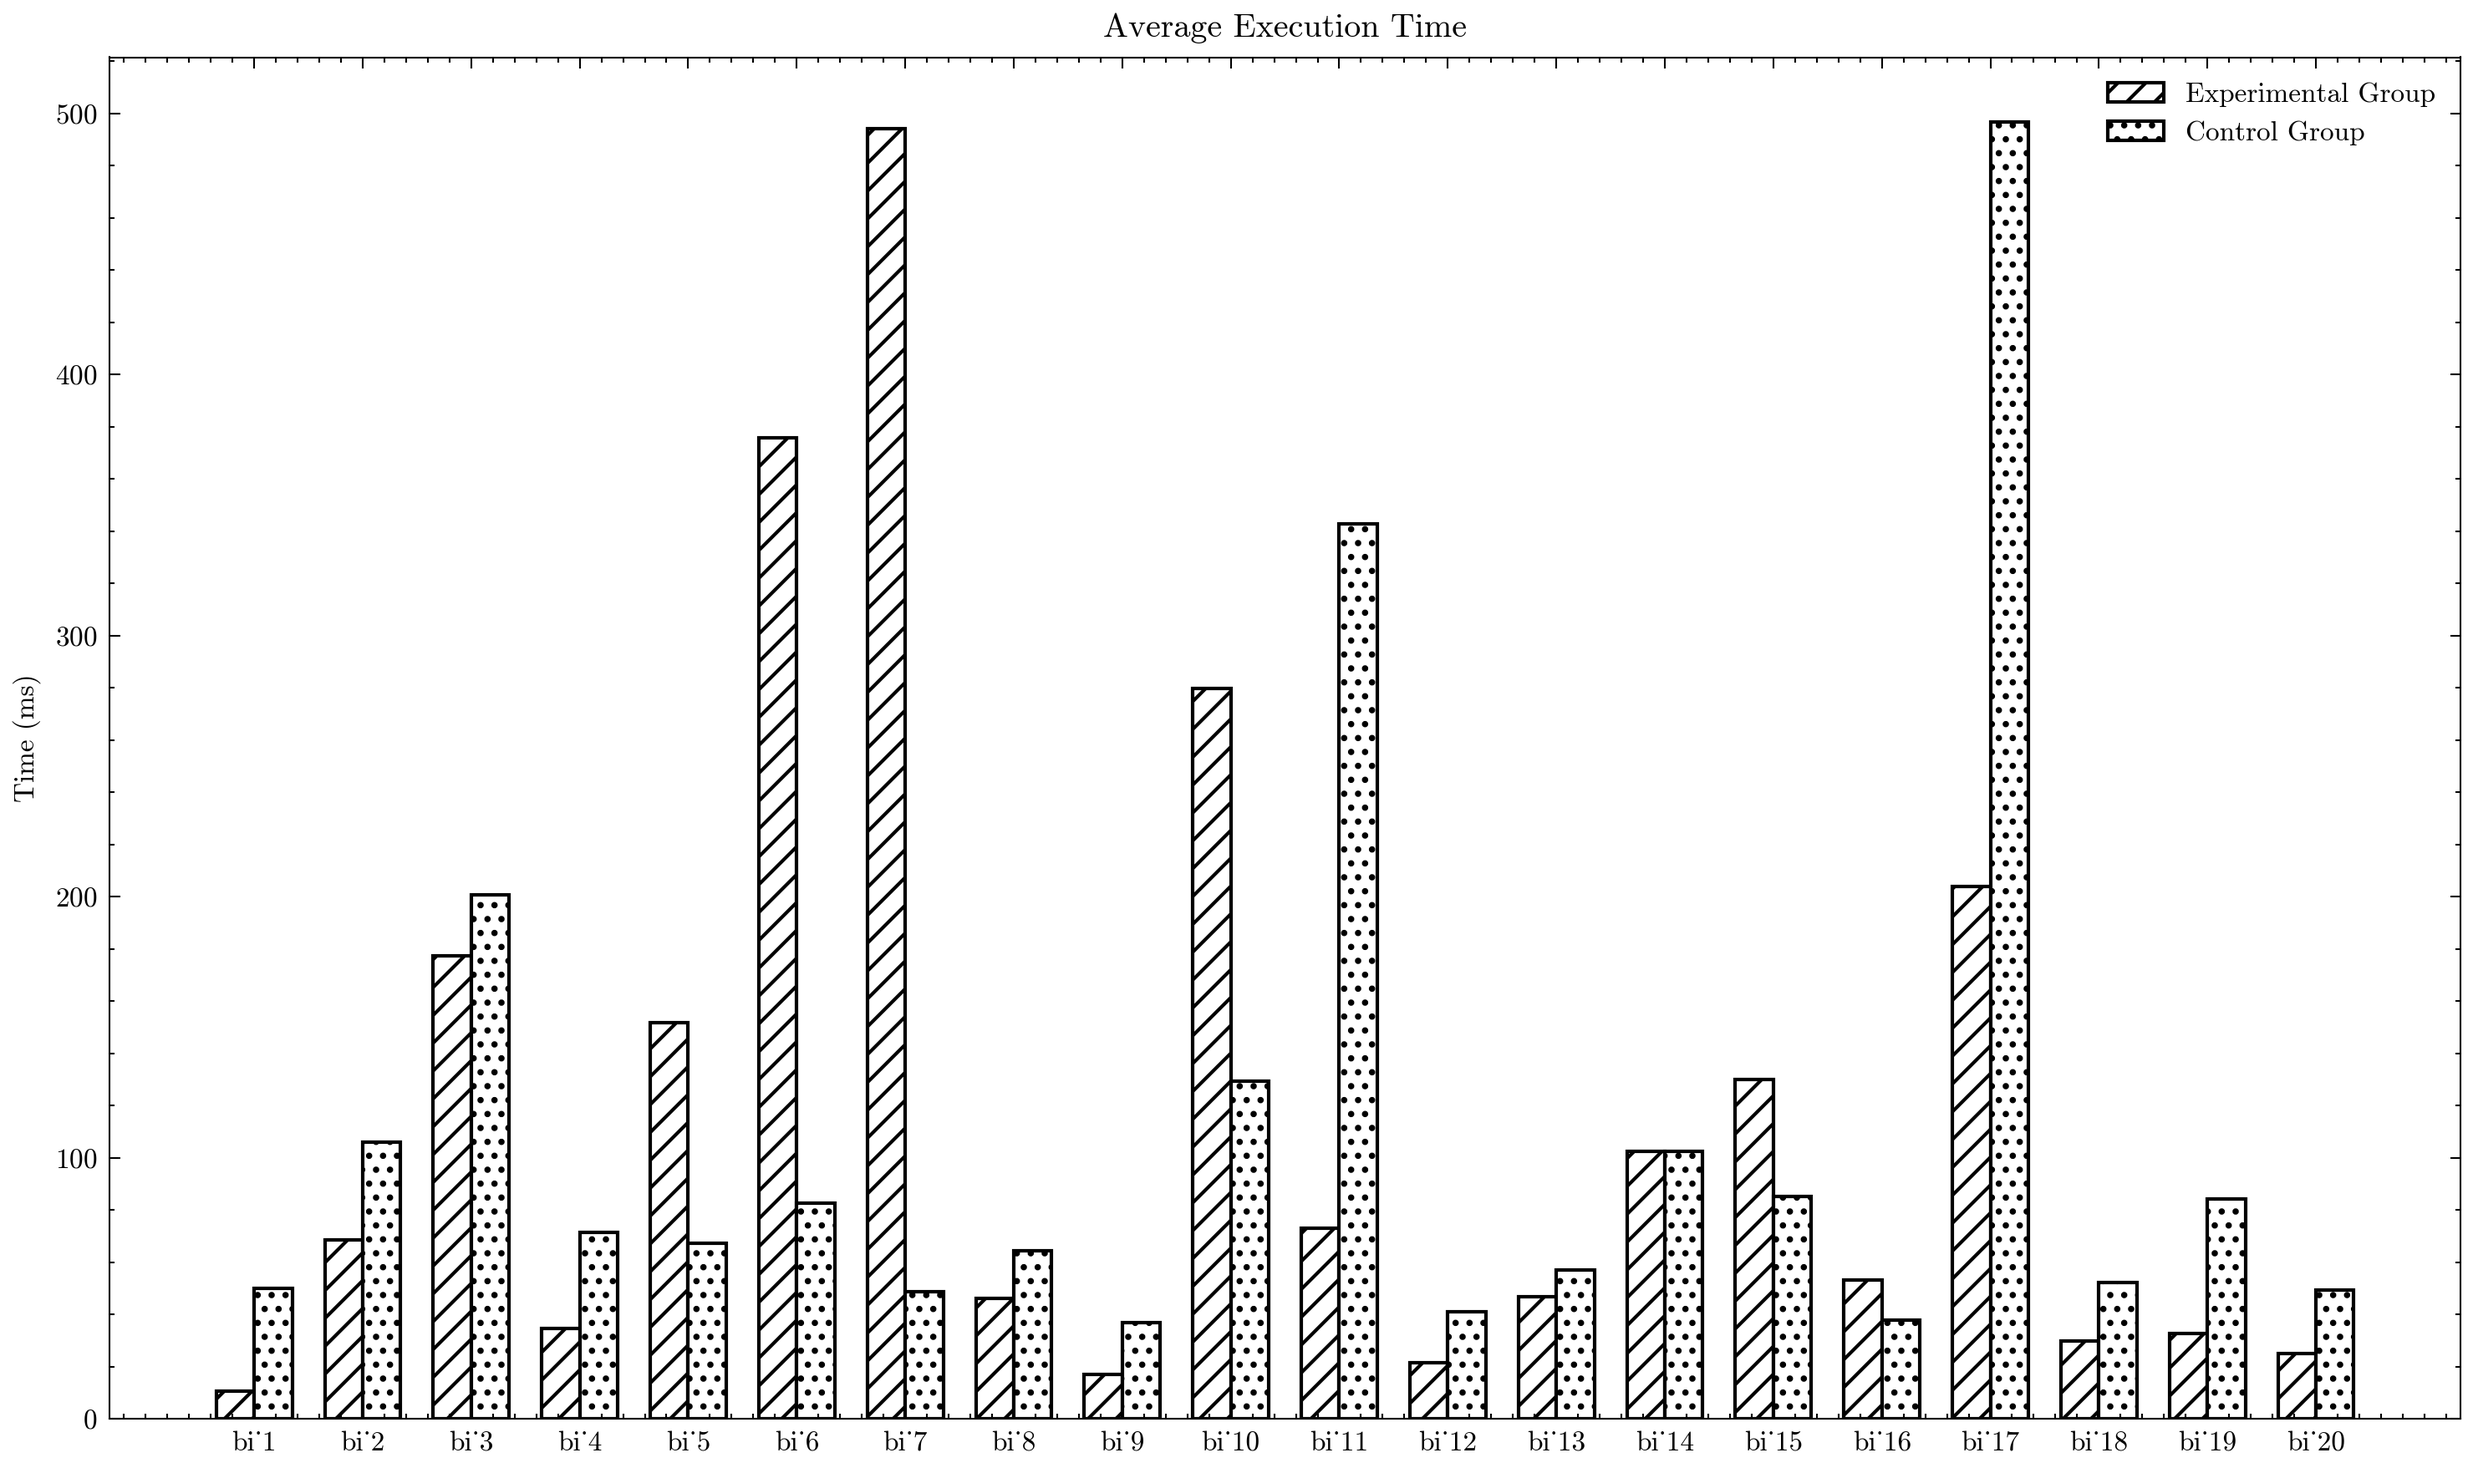
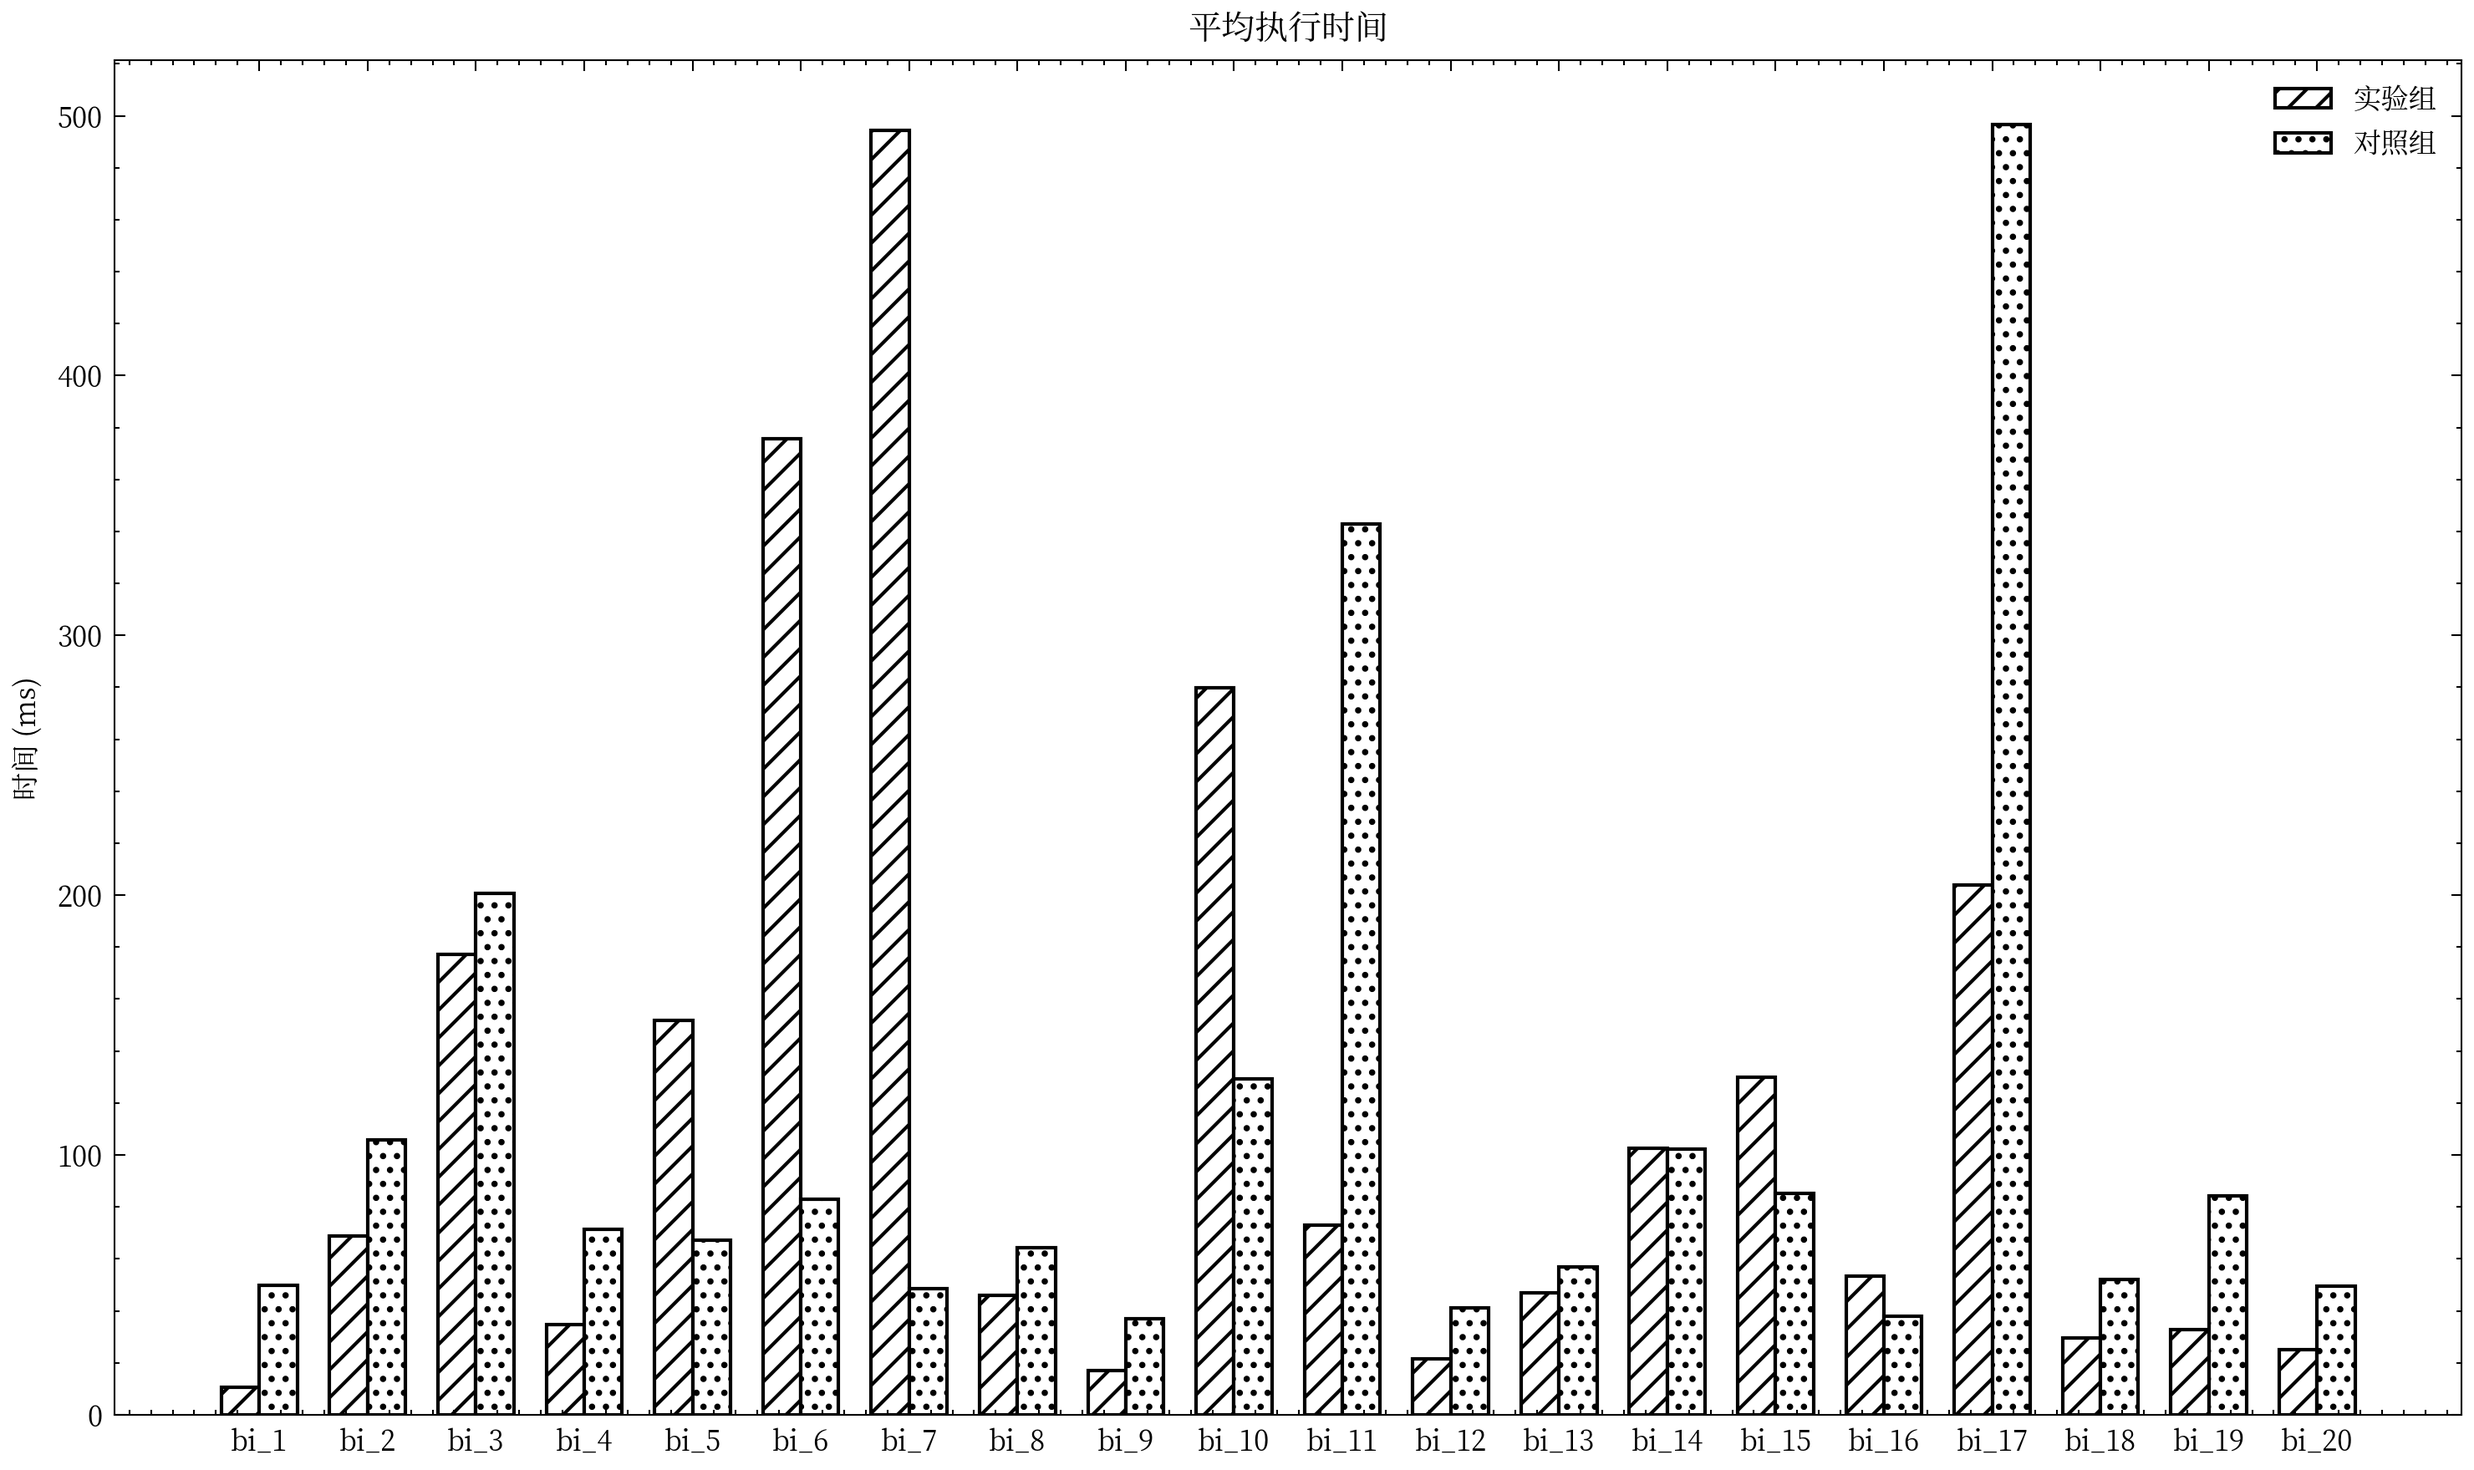
update

diff --git a/ember-graph-bench-dump/main.py b/ember-graph-bench-dump/main.py
@@ -1,6 +1,5 @@
 from typing import Optional
 
-import matplotlib as mpl
 import matplotlib.pyplot as plt
 import numpy as np
 import scienceplots  # type: ignore
@@ -12,13 +11,12 @@ from path_utils import PLOTTING_OUTPUT_DIR
 
 print(scienceplots)
 
-# try to solve the problem of Chinese characters not being displayed
-mpl.rcParams["font.family"] = "sans-serif"
 # use English labels by default
-USE_ENGLISH_LABELS = True
+USE_ENGLISH_LABELS = False
+
 MARKER: Optional[str] = None
 
-plt.style.use(["science", "ieee", "no-latex"])
+plt.style.use(["science", "ieee", "no-latex", "cjk-sc-font"])
 
 print()
 
